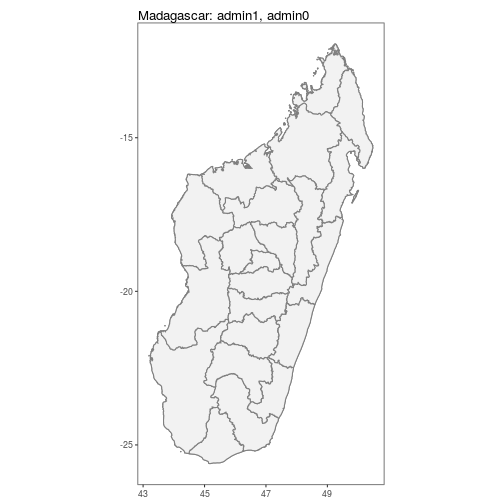
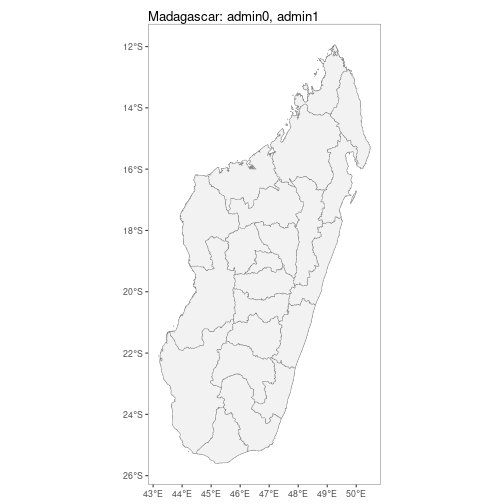
Update README for 1.2.0 release

Changed region(s): [[0.2381, 0.0, 0.7738, 1.0]]

diff --git a/README.md b/README.md
@@ -13,9 +13,7 @@ output:
 # malariaAtlas 
 ### An R interface to open-access malaria data, hosted by the Malaria Atlas Project. 
 
-
 *The gitlab version of the malariaAtlas package has some additional bugfixes over the stable CRAN package. If you have any issues, try installing the latest github version. See below for instructions.*
-
 
 # Overview 
 
@@ -89,7 +87,7 @@ isAvailable_pr(ISO = "USA")
 ```
 
 ```
-## Error in isAvailable_pr(ISO = "USA"): Specified location not found, see below comments: 
+## Specified location not found, see below comments: 
 ##  
 ## Data not found for 'USA', did you mean UGA OR SAU?
 ```
@@ -123,36 +121,36 @@ MDG_pr_data <- getPR(country = "Madagascar", species = "both")
 ```
 
 ```
-## Observations: 538
-## Variables: 28
-## $ dhs_id                    <lgl> NA, NA, NA, NA, NA, NA, NA, NA, NA, NA…
-## $ site_id                   <int> 6221, 6021, 15070, 15795, 7374, 13099,…
-## $ site_name                 <fct> Andranomasina, Andasibe, Ambohimarina,…
-## $ latitude                  <dbl> -18.7170, -19.8340, -18.7340, -19.7699…
-## $ longitude                 <dbl> 47.4660, 47.8500, 47.2520, 46.6870, 46…
-## $ rural_urban               <fct> UNKNOWN, UNKNOWN, UNKNOWN, UNKNOWN, UN…
-## $ country                   <fct> Madagascar, Madagascar, Madagascar, Ma…
-## $ country_id                <fct> MDG, MDG, MDG, MDG, MDG, MDG, MDG, MDG…
-## $ continent_id              <fct> Africa, Africa, Africa, Africa, Africa…
-## $ month_start               <int> 1, 3, 1, 7, 4, 1, 1, 7, 4, 7, 11, 4, 9…
-## $ year_start                <int> 1987, 1987, 1987, 1995, 1986, 1987, 19…
-## $ month_end                 <int> 1, 3, 1, 8, 6, 1, 1, 8, 4, 8, 11, 6, 9…
-## $ year_end                  <int> 1987, 1987, 1987, 1995, 1986, 1987, 19…
-## $ lower_age                 <int> 0, 0, 0, 2, 7, 0, 0, 2, 6, 2, 2, 7, 0,…
-## $ upper_age                 <int> 99, 99, 99, 9, 22, 99, 99, 9, 12, 9, 9…
-## $ examined                  <int> 50, 246, 50, 50, 119, 50, 50, 50, 20, …
-## $ positive                  <dbl> 7.5, 126.0, 2.5, 6.0, 37.0, 13.5, 4.5,…
-## $ pr                        <dbl> 0.1500, 0.5122, 0.0500, 0.1200, 0.3109…
-## $ species                   <chr> "P. falciparum", "P. falciparum", "P. …
-## $ method                    <fct> Microscopy, Microscopy, Microscopy, Mi…
-## $ rdt_type                  <fct> , , , , , , , , , , , , , , , , , , , …
-## $ pcr_type                  <lgl> NA, NA, NA, NA, NA, NA, NA, NA, NA, NA…
-## $ malaria_metrics_available <fct> true, true, true, true, true, true, tr…
-## $ location_available        <fct> true, true, true, true, true, true, tr…
-## $ permissions_info          <fct> , , , , , , , , , , , , , , , , , , , …
-## $ citation1                 <fct> "Lepers, J.P., Ramanamirija, J.A., And…
-## $ citation2                 <fct> , , , , , , , , , , , , , , , , , , , …
-## $ citation3                 <lgl> NA, NA, NA, NA, NA, NA, NA, NA, NA, NA…
+## Rows: 1,651
+## Columns: 28
+## $ dhs_id                    <chr> "", "", "", "", "", "", "", "", "", "", "", "", "", "", "", "", "", "", "", "", "", "", "", "",…
+## $ site_id                   <int> 6221, 6021, 15070, 15795, 7374, 13099, 9849, 21475, 15943, 7930, 13748, 16323, 19003, 10839, 27…
+## $ site_name                 <chr> "Andranomasina", "Andasibe", "Ambohimarina", "Antohobe", "Ambohimazava", "Ankeribe", "Alatsinai…
+## $ latitude                  <dbl> -18.7170, -19.8340, -18.7340, -19.7699, -25.0323, -18.7010, -18.7192, -19.5830, -24.9830, -19.7…
+## $ longitude                 <dbl> 47.4660, 47.8500, 47.2520, 46.6870, 46.9960, 47.1660, 47.4905, 47.4660, 46.9160, 46.6536, 46.71…
+## $ rural_urban               <chr> "UNKNOWN", "UNKNOWN", "UNKNOWN", "UNKNOWN", "UNKNOWN", "UNKNOWN", "UNKNOWN", "UNKNOWN", "UNKNOW…
+## $ country                   <chr> "Madagascar", "Madagascar", "Madagascar", "Madagascar", "Madagascar", "Madagascar", "Madagascar…
+## $ country_id                <chr> "MDG", "MDG", "MDG", "MDG", "MDG", "MDG", "MDG", "MDG", "MDG", "MDG", "MDG", "MDG", "MDG", "MDG…
+## $ continent_id              <chr> "Africa", "Africa", "Africa", "Africa", "Africa", "Africa", "Africa", "Africa", "Africa", "Afri…
+## $ month_start               <int> 1, 3, 1, 7, 4, 1, 1, 7, 4, 7, 11, 4, 9, 7, 7, 3, 7, 3, 4, 6, 3, 7, 7, 7, 7, 11, 11, 1, 11, 7, 1…
+## $ year_start                <int> 1987, 1987, 1987, 1995, 1986, 1987, 1987, 1995, 1986, 1995, 1997, 1986, 1991, 1995, 1995, 2005,…
+## $ month_end                 <int> 1, 3, 1, 8, 6, 1, 1, 8, 4, 8, 11, 6, 9, 8, 8, 6, 7, 3, 6, 6, 6, 7, 8, 8, 8, 11, 11, 1, 11, 8, 1…
+## $ year_end                  <int> 1987, 1987, 1987, 1995, 1986, 1987, 1987, 1995, 1986, 1995, 1997, 1986, 1991, 1995, 1995, 2005,…
+## $ lower_age                 <dbl> 0, 0, 0, 2, 7, 0, 0, 2, 6, 2, 2, 7, 0, 2, 2, 0, 0, 0, 7, 0, 0, 0, 2, 2, 2, 2, 2, 0, 2, 2, 0, 2,…
+## $ upper_age                 <int> 99, 99, 99, 9, 22, 99, 99, 9, 12, 9, 9, 22, 99, 9, 9, 5, 99, 99, 22, 99, 5, 99, 9, 9, 9, 9, 9, …
+## $ examined                  <int> 50, 246, 50, 50, 119, 50, 50, 50, 20, 50, 61, 156, 104, 50, 50, 147, 541, 115, 67, 123, 60, 307…
+## $ positive                  <dbl> 7.5, 126.0, 2.5, 6.0, 37.0, 13.5, 4.5, 11.5, 8.0, 7.0, 3.0, 97.0, 24.0, 33.0, 0.0, 70.0, 236.0,…
+## $ pr                        <dbl> 0.1500, 0.5122, 0.0500, 0.1200, 0.3109, 0.2700, 0.0900, 0.2300, 0.4000, 0.1400, 0.0492, 0.6218,…
+## $ species                   <chr> "P. falciparum", "P. falciparum", "P. falciparum", "P. falciparum", "P. falciparum", "P. falcip…
+## $ method                    <chr> "Microscopy", "Microscopy", "Microscopy", "Microscopy", "Microscopy", "Microscopy", "Microscopy…
+## $ rdt_type                  <chr> "", "", "", "", "", "", "", "", "", "", "", "", "", "", "", "", "", "", "", "", "", "", "", "",…
+## $ pcr_type                  <lgl> NA, NA, NA, NA, NA, NA, NA, NA, NA, NA, NA, NA, NA, NA, NA, NA, NA, NA, NA, NA, NA, NA, NA, NA,…
+## $ malaria_metrics_available <chr> "true", "true", "true", "true", "true", "true", "true", "true", "true", "true", "true", "true",…
+## $ location_available        <chr> "true", "true", "true", "true", "true", "true", "true", "true", "true", "true", "true", "true",…
+## $ permissions_info          <chr> "", "", "", "", "", "", "", "", "", "", "", "", "", "", "", "", "", "", "", "", "", "", "", "",…
+## $ citation1                 <chr> "Lepers, J.P., Ramanamirija, J.A., Andriamangatiana-Rason, M.D. and Coulanges, P. (1988).  <b>R…
+## $ citation2                 <chr> "", "", "", "", "", "", "", "", "", "", "", "", "", "", "", "", "", "", "", "", "", "", "", "",…
+## $ citation3                 <lgl> NA, NA, NA, NA, NA, NA, NA, NA, NA, NA, NA, NA, NA, NA, NA, NA, NA, NA, NA, NA, NA, NA, NA, NA,…
 ```
 
 
@@ -184,32 +182,32 @@ MMR_vec_data <- getVecOcc(country = "Myanmar")
 ```
 
 ```
-## Observations: 2,866
-## Variables: 24
-## $ site_id        <int> 30243, 30243, 30243, 30243, 1000000072, 100000007…
-## $ latitude       <dbl> 16.257, 16.257, 16.257, 16.257, 17.350, 17.380, 1…
-## $ longitude      <dbl> 97.725, 97.725, 97.725, 97.725, 96.041, 96.037, 9…
-## $ country        <fct> Myanmar, Myanmar, Myanmar, Myanmar, Myanmar, Myan…
-## $ country_id     <fct> MMR, MMR, MMR, MMR, MMR, MMR, MMR, MMR, MMR, MMR,…
-## $ continent_id   <fct> Asia, Asia, Asia, Asia, Asia, Asia, Asia, Asia, A…
-## $ month_start    <int> 2, 3, 8, 9, 5, 5, 5, 5, 5, 5, 5, 5, 5, 5, 5, 5, 5…
-## $ year_start     <int> 1998, 1998, 1998, 1998, 1998, 1998, 1998, 1998, 1…
-## $ month_end      <int> 2, 3, 8, 9, 3, 3, 3, 3, 3, 3, 3, 3, 3, 3, 3, 3, 3…
-## $ year_end       <int> 1998, 1998, 1998, 1998, 2000, 2000, 2000, 2000, 2…
-## $ anopheline_id  <int> 17, 17, 17, 17, 50, 49, 17, 51, 11, 4, 15, 1, 35,…
-## $ species        <fct> "Anopheles dirus species complex", "Anopheles dir…
-## $ species_plain  <fct> Anopheles dirus, Anopheles dirus, Anopheles dirus…
-## $ id_method1     <fct> unknown, unknown, unknown, unknown, morphology, m…
-## $ id_method2     <fct> , , , , , , , , , , , , , , , , , , , , , , , , 
-## $ sample_method1 <fct> man biting, man biting, man biting, man biting, m…
-## $ sample_method2 <fct> animal baited net trap, animal baited net trap, a…
-## $ sample_method3 <fct> , , , , animal baited net trap, animal baited net…
-## $ sample_method4 <fct> , , , , house resting inside, house resting insid…
-## $ assi           <fct> , , , , , , , , , , , , , , , , , , , , , , , , 
-## $ citation       <fct> "Oo, T.T., Storch, V. and Becker, N. (2003).  <b>…
-## $ geom           <fct> POINT (16.257 97.725), POINT (16.257 97.725), POI…
-## $ time_start     <fct> 1998-02-01, 1998-03-01, 1998-08-01, 1998-09-01, 1…
-## $ time_end       <fct> 1998-02-01, 1998-03-01, 1998-08-01, 1998-09-01, 2…
+## Rows: 2,866
+## Columns: 24
+## $ site_id        <int> 30243, 30243, 30243, 30243, 1000000072, 1000000071, 1000000071, 1000000072, 1000000071, 1000000071, 100000…
+## $ latitude       <dbl> 16.2570, 16.2570, 16.2570, 16.2570, 17.3500, 17.3800, 17.3800, 17.3500, 17.3800, 17.3800, 17.3800, 17.3800…
+## $ longitude      <dbl> 97.7250, 97.7250, 97.7250, 97.7250, 96.0410, 96.0370, 96.0370, 96.0410, 96.0370, 96.0370, 96.0370, 96.0370…
+## $ country        <chr> "Myanmar", "Myanmar", "Myanmar", "Myanmar", "Myanmar", "Myanmar", "Myanmar", "Myanmar", "Myanmar", "Myanma…
+## $ country_id     <chr> "MMR", "MMR", "MMR", "MMR", "MMR", "MMR", "MMR", "MMR", "MMR", "MMR", "MMR", "MMR", "MMR", "MMR", "MMR", "…
+## $ continent_id   <chr> "Asia", "Asia", "Asia", "Asia", "Asia", "Asia", "Asia", "Asia", "Asia", "Asia", "Asia", "Asia", "Asia", "A…
+## $ month_start    <int> 2, 3, 8, 9, 5, 5, 5, 5, 5, 5, 5, 5, 5, 5, 5, 5, 5, 10, 5, 5, 5, 5, 5, 5, 5, 5, 5, 5, 5, 5, 5, 5, 5, 5, 5, …
+## $ year_start     <int> 1998, 1998, 1998, 1998, 1998, 1998, 1998, 1998, 1998, 1998, 1998, 1998, 1998, 1998, 1998, 1998, 1998, 1998…
+## $ month_end      <int> 2, 3, 8, 9, 3, 3, 3, 3, 3, 3, 3, 3, 3, 3, 3, 3, 3, 10, 3, 3, 3, 3, 3, 3, 3, 3, 3, 3, 3, 3, 3, 3, 3, 3, 3, …
+## $ year_end       <int> 1998, 1998, 1998, 1998, 2000, 2000, 2000, 2000, 2000, 2000, 2000, 2000, 2000, 2000, 2000, 2000, 2000, 1998…
+## $ anopheline_id  <int> 17, 17, 17, 17, 50, 49, 17, 51, 11, 4, 15, 1, 35, 30, 50, 51, 30, 17, 17, 11, 15, 1, 35, 49, 4, 17, 11, 15…
+## $ species        <chr> "Anopheles dirus species complex", "Anopheles dirus species complex", "Anopheles dirus species complex", "…
+## $ species_plain  <chr> "Anopheles dirus", "Anopheles dirus", "Anopheles dirus", "Anopheles dirus", "Anopheles stephensi", "Anophe…
+## $ id_method1     <chr> "unknown", "unknown", "unknown", "unknown", "morphology", "morphology", "morphology", "morphology", "morph…
+## $ id_method2     <chr> "", "", "", "", "", "", "", "", "", "", "", "", "", "", "", "", "", "", "", "", "", "", "", "", "", "", ""…
+## $ sample_method1 <chr> "man biting", "man biting", "man biting", "man biting", "man biting indoors", "man biting indoors", "man b…
+## $ sample_method2 <chr> "animal baited net trap", "animal baited net trap", "animal baited net trap", "animal baited net trap", "m…
+## $ sample_method3 <chr> "", "", "", "", "animal baited net trap", "animal baited net trap", "animal baited net trap", "animal bait…
+## $ sample_method4 <chr> "", "", "", "", "house resting inside", "house resting inside", "house resting inside", "house resting ins…
+## $ assi           <chr> "", "", "", "", "", "", "", "", "", "", "", "", "", "", "", "", "", "", "", "", "", "", "", "", "", "", ""…
+## $ citation       <chr> "Oo, T.T., Storch, V. and Becker, N. (2003).  <b><i>Anopheles</i> <i>dirus</i> and its role in malaria tra…
+## $ geom           <chr> "POINT (16.257 97.725)", "POINT (16.257 97.725)", "POINT (16.257 97.725)", "POINT (16.257 97.725)", "POINT…
+## $ time_start     <chr> "1998-02-01", "1998-03-01", "1998-08-01", "1998-09-01", "1998-05-01", "1998-05-01", "1998-05-01", "1998-05…
+## $ time_end       <chr> "1998-02-01", "1998-03-01", "1998-08-01", "1998-09-01", "2000-03-01", "2000-03-01", "2000-03-01", "2000-03…
 ```
 
 `autoplot.vector.points` configures autoplot method to enable quick mapping of the locations of downloaded vector points. 
@@ -239,59 +237,31 @@ MDG_shp <- getShp(ISO = "MDG", admin_level = c("admin0", "admin1"))
 ```
 
 ```
-## Formal class 'SpatialPolygonsDataFrame' [package "sp"] with 5 slots
-##   ..@ data       :'data.frame':	23 obs. of  16 variables:
-##   .. ..$ iso          : Factor w/ 86 levels "AFG","AGO","BDI",..: 43 43 43 43 43 43 43 43 43 43 ...
-##   .. ..$ admn_level   : num [1:23] 0 1 1 1 1 1 1 1 1 1 ...
-##   .. ..$ name_0       : Factor w/ 86 levels "Afghanistan",..: 42 42 42 42 42 42 42 42 42 42 ...
-##   .. ..$ id_0         : num [1:23] 1e+07 1e+07 1e+07 1e+07 1e+07 ...
-##   .. ..$ type_0       : Factor w/ 1 level "Country": 1 1 1 1 1 1 1 1 1 1 ...
-##   .. ..$ name_1       : chr [1:23] NA "Androy" "Anosy" "Atsimo Andrefana" ...
-##   .. ..$ id_1         : num [1:23] NA 1e+07 1e+07 1e+07 1e+07 ...
-##   .. ..$ type_1       : chr [1:23] NA "Region" "Region" "Region" ...
-##   .. ..$ name_2       : chr [1:23] NA NA NA NA ...
-##   .. ..$ id_2         : num [1:23] NA NA NA NA NA NA NA NA NA NA ...
-##   .. ..$ type_2       : chr [1:23] NA NA NA NA ...
-##   .. ..$ name_3       : logi [1:23] NA NA NA NA NA NA ...
-##   .. ..$ id_3         : logi [1:23] NA NA NA NA NA NA ...
-##   .. ..$ type_3       : logi [1:23] NA NA NA NA NA NA ...
-##   .. ..$ source       : Factor w/ 33 levels "ALHASAN Systems Private Limited 2017",..: 17 17 17 17 17 17 17 17 17 17 ...
-##   .. ..$ country_level: chr [1:23] "MDG_0" "MDG_1" "MDG_1" "MDG_1" ...
-##   ..@ polygons   :List of 23
-##   .. ..$ :Formal class 'Polygons' [package "sp"] with 5 slots
-##   .. ..$ :Formal class 'Polygons' [package "sp"] with 5 slots
-##   .. ..$ :Formal class 'Polygons' [package "sp"] with 5 slots
-##   .. ..$ :Formal class 'Polygons' [package "sp"] with 5 slots
-##   .. ..$ :Formal class 'Polygons' [package "sp"] with 5 slots
-##   .. ..$ :Formal class 'Polygons' [package "sp"] with 5 slots
-##   .. ..$ :Formal class 'Polygons' [package "sp"] with 5 slots
-##   .. ..$ :Formal class 'Polygons' [package "sp"] with 5 slots
-##   .. ..$ :Formal class 'Polygons' [package "sp"] with 5 slots
-##   .. ..$ :Formal class 'Polygons' [package "sp"] with 5 slots
-##   .. ..$ :Formal class 'Polygons' [package "sp"] with 5 slots
-##   .. ..$ :Formal class 'Polygons' [package "sp"] with 5 slots
-##   .. ..$ :Formal class 'Polygons' [package "sp"] with 5 slots
-##   .. ..$ :Formal class 'Polygons' [package "sp"] with 5 slots
-##   .. ..$ :Formal class 'Polygons' [package "sp"] with 5 slots
-##   .. ..$ :Formal class 'Polygons' [package "sp"] with 5 slots
-##   .. ..$ :Formal class 'Polygons' [package "sp"] with 5 slots
-##   .. ..$ :Formal class 'Polygons' [package "sp"] with 5 slots
-##   .. ..$ :Formal class 'Polygons' [package "sp"] with 5 slots
-##   .. ..$ :Formal class 'Polygons' [package "sp"] with 5 slots
-##   .. ..$ :Formal class 'Polygons' [package "sp"] with 5 slots
-##   .. ..$ :Formal class 'Polygons' [package "sp"] with 5 slots
-##   .. ..$ :Formal class 'Polygons' [package "sp"] with 5 slots
-##   ..@ plotOrder  : int [1:23] 1 4 17 15 14 3 8 7 20 12 ...
-##   ..@ bbox       : num [1:2, 1:2] 43.2 -25.6 50.5 -11.9
-##   .. ..- attr(*, "dimnames")=List of 2
-##   ..@ proj4string:Formal class 'CRS' [package "sp"] with 1 slot
+## Rows: 23
+## Columns: 17
+## $ iso           <chr> "MDG", "MDG", "MDG", "MDG", "MDG", "MDG", "MDG", "MDG", "MDG", "MDG", "MDG", "MDG", "MDG", "MDG", "MDG", "M…
+## $ admn_level    <dbl> 0, 1, 1, 1, 1, 1, 1, 1, 1, 1, 1, 1, 1, 1, 1, 1, 1, 1, 1, 1, 1, 1, 1
+## $ name_0        <chr> "Madagascar", "Madagascar", "Madagascar", "Madagascar", "Madagascar", "Madagascar", "Madagascar", "Madagasc…
+## $ id_0          <dbl> 10000910, 10000910, 10000910, 10000910, 10000910, 10000910, 10000910, 10000910, 10000910, 10000910, 1000091…
+## $ type_0        <chr> "Country", "Country", "Country", "Country", "Country", "Country", "Country", "Country", "Country", "Country…
+## $ name_1        <chr> "name_1", "Androy", "Anosy", "Atsimo Andrefana", "Atsimo Atsinanana", "Atsinanana", "Betsiboka", "Boeny", "…
+## $ id_1          <chr> "id_1", "10023001", "10023002", "10023003", "10022990", "10023000", "10022994", "10022995", "10022984", "10…
+## $ type_1        <chr> "type_1", "Region", "Region", "Region", "Region", "Region", "Region", "Region", "Region", "Region", "Region…
+## $ name_2        <chr> "name_2", "name_2", "name_2", "name_2", "name_2", "name_2", "name_2", "name_2", "name_2", "name_2", "name_2…
+## $ id_2          <chr> "id_2", "id_2", "id_2", "id_2", "id_2", "id_2", "id_2", "id_2", "id_2", "id_2", "id_2", "id_2", "id_2", "id…
+## $ type_2        <chr> "type_2", "type_2", "type_2", "type_2", "type_2", "type_2", "type_2", "type_2", "type_2", "type_2", "type_2…
+## $ name_3        <chr> "name_3", "name_3", "name_3", "name_3", "name_3", "name_3", "name_3", "name_3", "name_3", "name_3", "name_3…
+## $ id_3          <chr> "id_3", "id_3", "id_3", "id_3", "id_3", "id_3", "id_3", "id_3", "id_3", "id_3", "id_3", "id_3", "id_3", "id…
+## $ type_3        <chr> "type_3", "type_3", "type_3", "type_3", "type_3", "type_3", "type_3", "type_3", "type_3", "type_3", "type_3…
+## $ source        <chr> "Madagascar NMCP 2016", "Madagascar NMCP 2016", "Madagascar NMCP 2016", "Madagascar NMCP 2016", "Madagascar…
+## $ country_level <chr> "MDG_0", "MDG_1", "MDG_1", "MDG_1", "MDG_1", "MDG_1", "MDG_1", "MDG_1", "MDG_1", "MDG_1", "MDG_1", "MDG_1",…
+## $ geometry      <MULTIPOLYGON [°]> MULTIPOLYGON (((44.22776 -2..., MULTIPOLYGON (((45.25095 -2..., MULTIPOLYGON (((45.95247 -2..., MULTIPOLYGO…
 ```
 
-`autoplot.MAPshp` configures autoplot method to enable quick mapping of downloaded shapefiles.
+`autoplot.sf` configures autoplot method to enable quick mapping of downloaded shapefiles.
 
 
 ```r
-MDG_shp <- as.MAPshp(MDG_shp)
 autoplot(MDG_shp)
 ```
 
@@ -317,18 +287,22 @@ autoplot(MDG_shp,
 MDG_shp <- getShp(ISO = "MDG", admin_level = "admin0")
 MDG_PfPR2_10 <- getRaster(surface = "Plasmodium falciparum PR2-10", shp = MDG_shp, year = 2013)
 ```
-N.B. to use downloaded rasters and shapefiles directly with autoplot, use as.MAPraster() and as.MAPshp() to convert these to data.frames. Alternatively autoplot_MAPraster() will work directly with RasterLayer, RasterStack or RasterBrick objects downloaded with getRaster().
 
-`autoplot.MAPraster`&`autoplot_MAPraster`configures autoplot method to enable quick mapping of downloaded rasters.
+
+`autoplot.SpatRaster` & `autoplot.SpatRasterCollection` configures autoplot method to enable quick mapping of downloaded rasters.
 
 
 ```r
-MDG_PfPR2_10_df <- as.MAPraster(MDG_PfPR2_10)
-MDG_shp_df <- as.MAPshp(MDG_shp)
-p <- autoplot(MDG_PfPR2_10_df, shp_df = MDG_shp_df)
+p <- autoplot(MDG_PfPR2_10, shp_df = MDG_shp)
 ```
 
-![plot of chunk unnamed-chunk-22](man/figures/unnamed-chunk-22-1.png)
+```
+## Error:
+## ! Problem while computing layer data.
+## ℹ Error occurred in the 2nd layer.
+## Caused by error in `l$layer_data()`:
+## ! attempt to apply non-function
+```
 
 
 ### Combined visualisation 
@@ -338,11 +312,9 @@ By using the above tools along with ggplot, simple comparison figures can be eas
 
 ```r
 MDG_shp <- getShp(ISO = "MDG", admin_level = "admin0")
-MDG_shp_df <- as.MAPshp(MDG_shp)
 MDG_PfPR2_10 <- getRaster(surface = "Plasmodium falciparum PR2-10", shp = MDG_shp, year = 2013)
-MDG_PfPR2_10_df <- as.MAPraster(MDG_PfPR2_10)
 
-p <- autoplot(MDG_PfPR2_10_df, shp_df = MDG_shp_df, printed = FALSE)
+p <- autoplot(MDG_PfPR2_10, shp_df = MDG_shp, printed = FALSE)
 
 pr <- getPR(country = c("Madagascar"), species = "Pf")
 p[[1]] +
@@ -352,18 +324,22 @@ scale_size_continuous(name = "Survey Size")+
  ggtitle("Raw PfPR Survey points\n + Modelled PfPR 2-10 in Madagascar in 2013")
 ```
 
-![plot of chunk unnamed-chunk-23](man/figures/unnamed-chunk-23-1.png)
+```
+## Error:
+## ! Problem while computing layer data.
+## ℹ Error occurred in the 2nd layer.
+## Caused by error in `l$layer_data()`:
+## ! attempt to apply non-function
+```
 
 Similarly for vector survey data
 
 
 ```r
 MMR_shp <- getShp(ISO = "MMR", admin_level = "admin0")
-MMR_shp_df <- as.MAPshp(MMR_shp)
 MMR_An_dirus <- getRaster(surface = "Anopheles dirus species complex", shp = MMR_shp)
-MMR_An_dirus_df <- as.MAPraster(MMR_An_dirus)
 
-p <- autoplot(MMR_An_dirus_df, shp_df = MMR_shp_df, printed = FALSE)
+p <- autoplot(MMR_An_dirus, shp_df = MMR_shp, printed = FALSE)
 
 vec <- getVecOcc(country = c("Myanmar"), species = "Anopheles dirus")
 p[[1]] +
@@ -373,7 +349,13 @@ geom_point(data = vec, aes(longitude, latitude, colour = species))+
  ggtitle("Vector Survey points\n + The predicted distribution of An. dirus complex")
 ```
 
-![plot of chunk unnamed-chunk-24](man/figures/unnamed-chunk-24-1.png)
+```
+## Error:
+## ! Problem while computing layer data.
+## ℹ Error occurred in the 2nd layer.
+## Caused by error in `l$layer_data()`:
+## ! attempt to apply non-function
+```
 
 
 ## Installation
@@ -385,3 +367,14 @@ Just install using `install.packages("malariaAtlas")` or using the package manag
 ### Latest version from github
 
 While this version is not as well-tested, it may include additional bugfixes not in the stable CRAN version. Install the `devtools` package and then install using `devtools::install_github('malaria-atlas-project/malariaAtlas')`
+
+## Changes
+
+### 1.2.0
+
+- Removed `rgdal`, `sp`, `raster` packages dependencies and added `terra`, `sf`, `tidyterra`, `lifecycle`
+- As a result `getShp` will now return `sf` objects
+- Similarly, `getRaster` returns `SpatRaster` or `SpatRasterCollection`
+- Some functions have been deprecated. They will still run in this version, with a warning. Please remove them from your code, they will be completely removed in the future.
+  - Deprecated `as.MAPraster`, `as.MAPshp`. They are no longer required for working with `autoplot`
+  - Deprecated `autoplot_MAPraster`. Use `autoplot` directly with the result of `getRaster`
